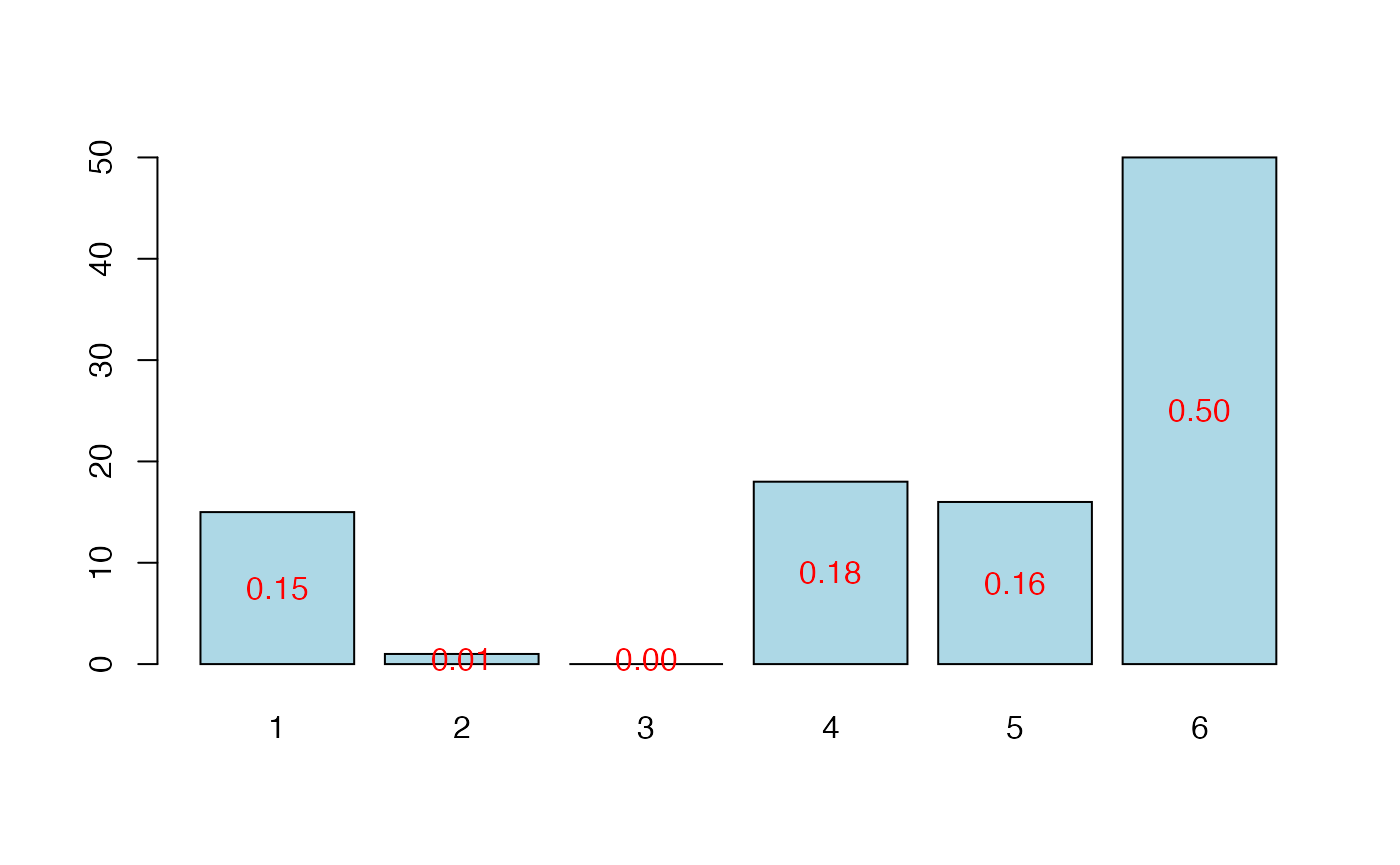
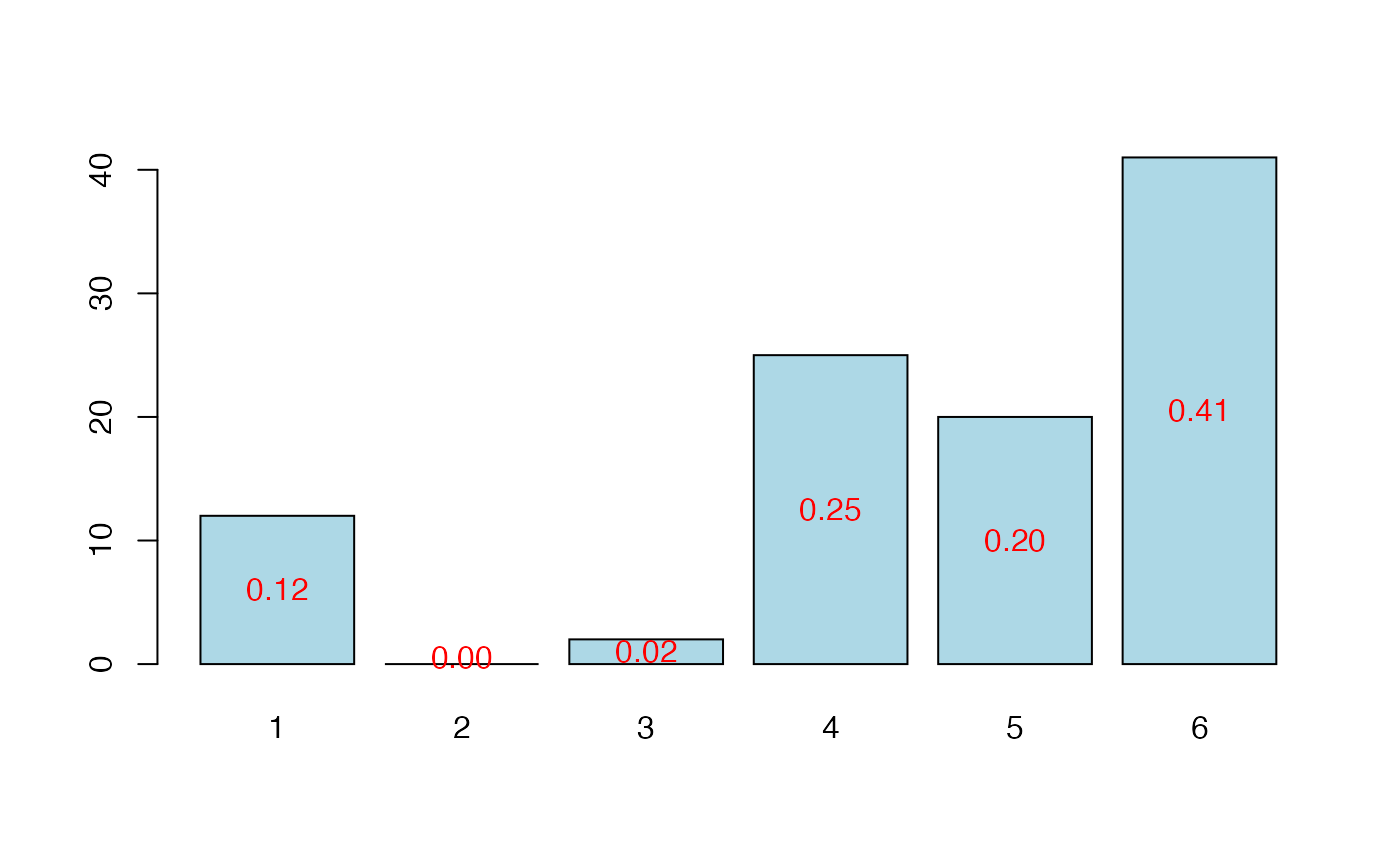
Not a real update.

diff --git a/docs/articles/UseNbcomp.html b/docs/articles/UseNbcomp.html
@@ -190,7 +190,7 @@
 <span class="co">#&gt; </span>
 <span class="co">#&gt; CV Press criterion:</span>
 <span class="co">#&gt;  1  2  3  4  5  6 </span>
-<span class="co">#&gt; 15  1  0 18 16 50</span></code></pre></div>
+<span class="co">#&gt; 12  0  2 25 20 41</span></code></pre></div>
 <p>The <span class="math inline">\(Q^2\)</span> criterion is recommended in that PLSR setting without missing data. A model with 1 component is selected by the cross-validation as displayed by the following figure. Hence the <span class="math inline">\(Q^2\)</span> criterion (1 component) does not agree with the experts (2 components).</p>
 <div class="sourceCode" id="cb6"><pre class="downlit sourceCode r">
 <code class="sourceCode R"><span class="fu"><a href="https://rdrr.io/r/graphics/plot.default.html">plot</a></span><span class="op">(</span><span class="fu">plsRglm</span><span class="fu">::</span><span class="fu"><a href="https://fbertran.github.io/plsRglm/reference/cvtable.html">cvtable</a></span><span class="op">(</span><span class="fu"><a href="https://rdrr.io/r/base/summary.html">summary</a></span><span class="op">(</span><span class="va">bbb2</span><span class="op">)</span><span class="op">)</span>,type<span class="op">=</span><span class="st">"CVQ2"</span><span class="op">)</span>
@@ -222,7 +222,7 @@
 <span class="co">#&gt; </span>
 <span class="co">#&gt; CV Press criterion:</span>
 <span class="co">#&gt;  1  2  3  4  5  6 </span>
-<span class="co">#&gt; 15  1  0 18 16 50</span></code></pre></div>
+<span class="co">#&gt; 12  0  2 25 20 41</span></code></pre></div>
 <p><img src="UseNbcomp_files/figure-html/pineplotcvtableQ2-1.png" width="700"></p>
 <p>As for the CV Press criterion it is unable to point out a unique number of components.</p>
 <div class="sourceCode" id="cb7"><pre class="downlit sourceCode r">
@@ -255,7 +255,7 @@
 <span class="co">#&gt; </span>
 <span class="co">#&gt; CV Press criterion:</span>
 <span class="co">#&gt;  1  2  3  4  5  6 </span>
-<span class="co">#&gt; 15  1  0 18 16 50</span></code></pre></div>
+<span class="co">#&gt; 12  0  2 25 20 41</span></code></pre></div>
 <p><img src="UseNbcomp_files/figure-html/pineplotcvtablePress-1.png" width="700"></p>
 </div>
 <div id="pls-yt-bootstrap" class="section level2">
